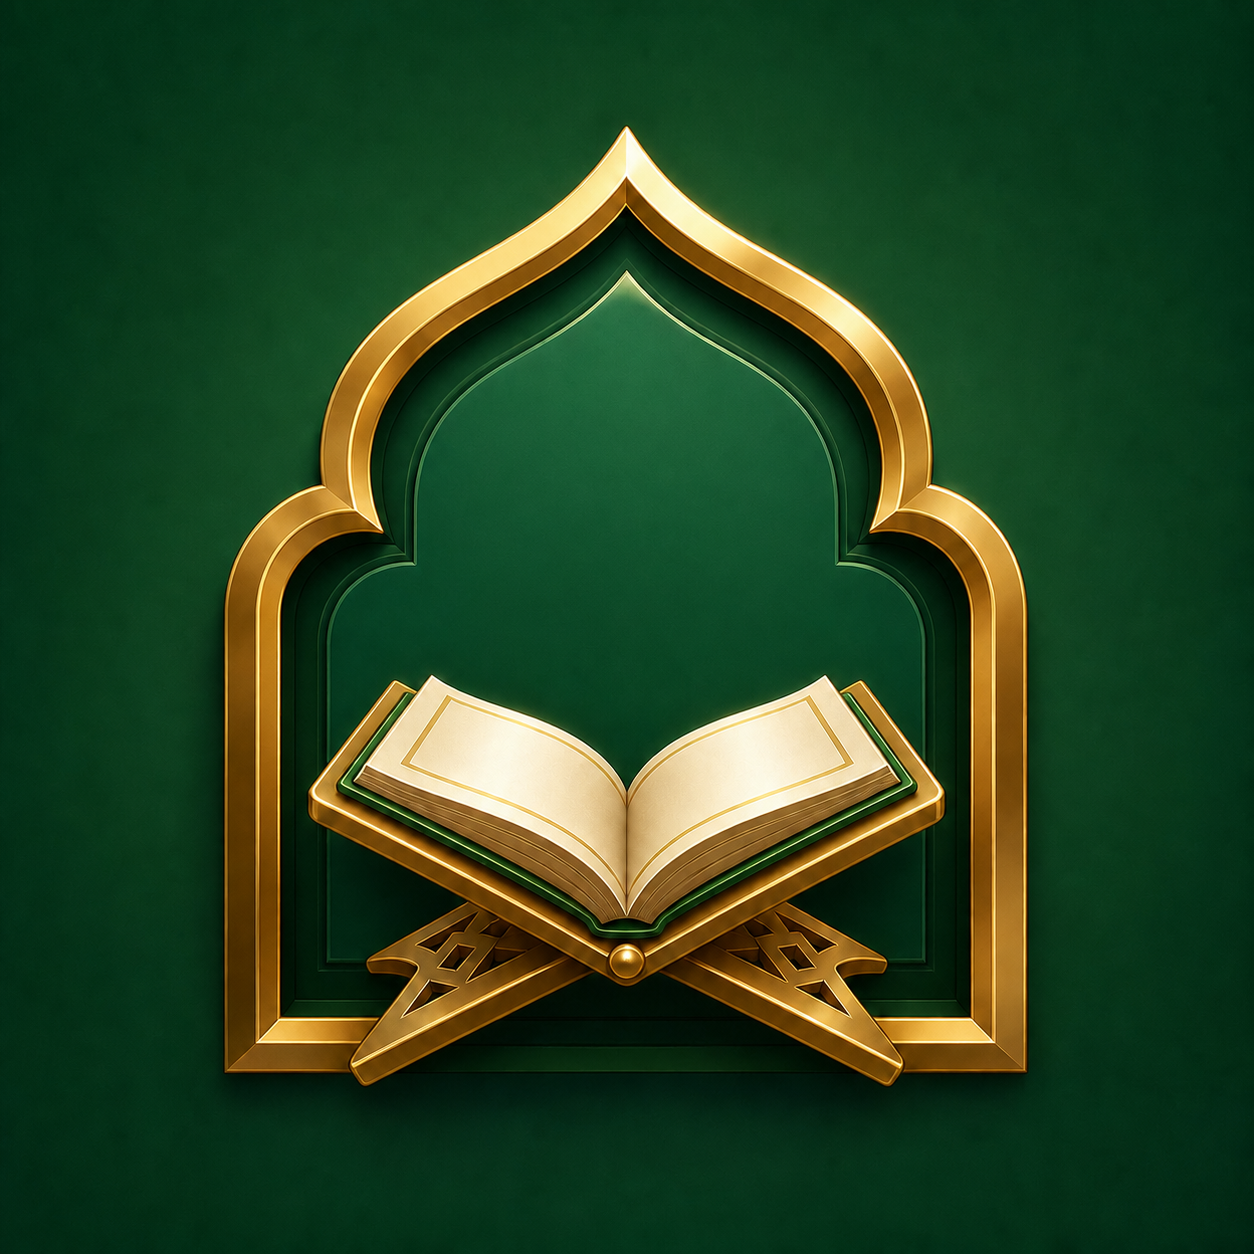
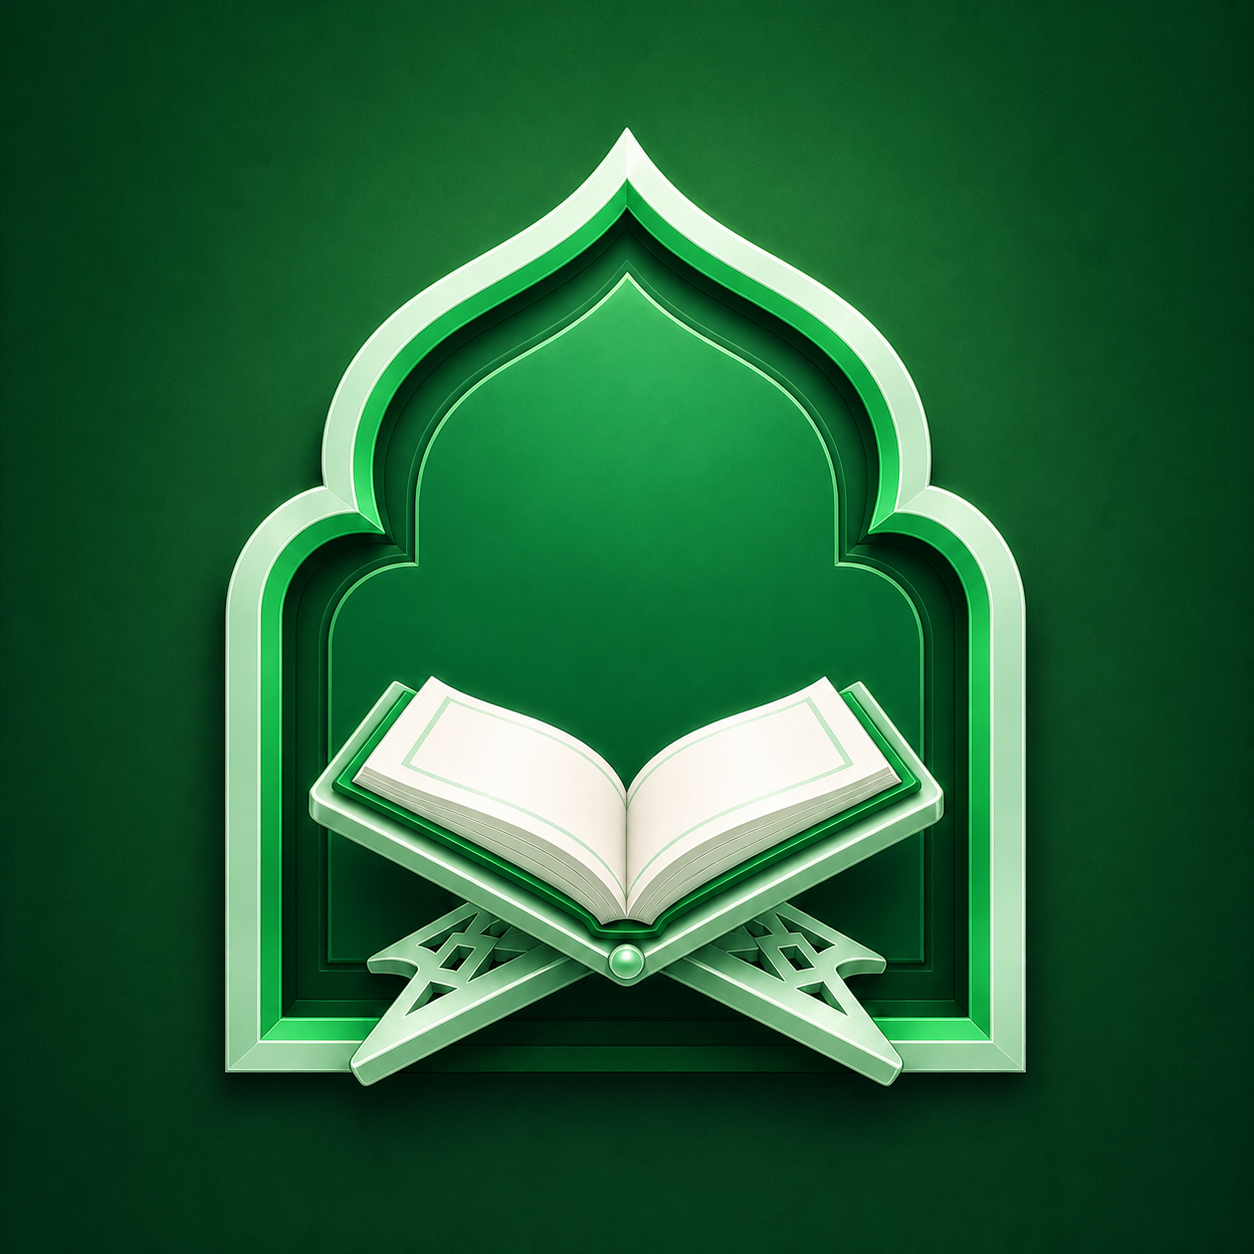
Release Android v1.7.9

diff --git a/index.html b/index.html
@@ -6,7 +6,7 @@
     <meta name="description" content="Iqro Morning Pray menghadirkan mushaf pilihan dan bacaan tahlil dalam satu halaman modern.">
     <meta name="robots" content="noindex, noarchive, nosnippet">
     <title>Iqro Morning Pray | Jejak Tilawah</title>
-    <link rel="icon" type="image/png" href="assets/app-logo.png?v=20260813-1">
+    <link rel="icon" type="image/png" href="assets/app-logo.png?v=20260813-2">
     <meta name="theme-color" content="#16a34a">
     <link rel="preconnect" href="https://fonts.googleapis.com">
     <link rel="preconnect" href="https://fonts.gstatic.com" crossorigin>
@@ -18,7 +18,7 @@
 <div class="site-shell">
     <header class="site-header">
         <button class="brand" type="button" onclick="showHome()">
-            <span class="brand-mark"><img src="assets/app-logo.png" alt="" aria-hidden="true"></span>
+            <span class="brand-mark"><img src="assets/app-logo.png?v=20260813-2" alt="" aria-hidden="true"></span>
             <span class="brand-copy">
                 <strong>Iqro</strong>
                 <span>Jejak Tilawah</span>
@@ -39,7 +39,7 @@
                     <div>
                         <p class="section-kicker">Home</p>
                         <h1 class="main-title">
-                            <span class="title-logo"><img src="assets/app-logo.png" alt="" aria-hidden="true"></span>
+                            <span class="title-logo"><img src="assets/app-logo.png?v=20260813-2" alt="" aria-hidden="true"></span>
                             Ringkasan Tilawah
                         </h1>
                         <p class="hero-copy">Setiap ayat membawamu lebih dekat kepada-Nya. Kami menyimpan jejak tilawahmu agar kamu bisa melanjutkannya kapan saja.</p>
@@ -392,7 +392,7 @@
     </main>
 
     <footer class="site-footer" aria-label="Informasi versi aplikasi">
-        <p class="site-footer-version">Iqro versi 1.7.8</p>
+        <p class="site-footer-version">Iqro versi 1.7.9</p>
         <p>© 2026 The Alus. All rights reserved</p>
     </footer>
 </div>
@@ -952,11 +952,16 @@
             .replace(/([\u06D6-\u06DB])\s*(?=\S)/g, '$1 ');
     }
 
-    // Scheherazade New can stack both marks over the alef in a vocalized
-    // lam-alif. Keep the Unicode text intact and isolate only that cluster
-    // so its mark-positioning features can be adjusted without affecting
-    // other Arabic shaping.
-    const quranMarkedLamAlifPattern = /(\u0644\u0652[\u0622\u0623\u0625\u0627\u0671][\u064B-\u065F\u0670\u06D6-\u06ED]+)/gu;
+    // Scheherazade New can attach lam's marks to the alef in a vocalized
+    // lam-alif. Keep the Unicode text intact and isolate every marked form
+    // (for example لِأٓ and لَّآ), not only the lam+sukun form, so Naskhi
+    // Jelas can use the Quran font's more reliable mark anchors.
+    const quranCombiningMarks = '[\\u064B-\\u065F\\u0670\\u06D6-\\u06ED]';
+    const quranMarkedLamAlifCluster = `\\u0644${quranCombiningMarks}+[\\u0622\\u0623\\u0625\\u0627\\u0671]${quranCombiningMarks}*`;
+    const quranMarkedLamAlifPattern = new RegExp(
+        `(\\S*${quranMarkedLamAlifCluster}\\S*)`,
+        'gu'
+    );
 
     function renderQuranTextSegment(value) {
         const source = String(value ?? '');
@@ -1579,7 +1584,7 @@
 </script>
 <script src="mobile-runtime.js?v=20260801-1"></script>
 <script src="quran-offline.js?v=20260805-1"></script>
-<script src="community.js?v=20260813-1"></script>
+<script src="community.js?v=20260813-2"></script>
 <script src="prayer.js?v=20260805-2"></script>
 <script src="calendar.js?v=20260807-2"></script>
 <script src="admin.js?v=20260801-1"></script>

diff --git a/scripts/render-arabic-icon.html b/scripts/render-arabic-icon.html
@@ -13,7 +13,7 @@
             height: 1254px;
             margin: 0;
             overflow: hidden;
-            background: #004a2d;
+            background: #166534;
         }
 
         html.foreground,
@@ -53,15 +53,15 @@
             font-weight: 400;
             line-height: 1;
             color: transparent;
-            background: linear-gradient(180deg, #fff4b9 4%, #f7ce69 48%, #d3941f 96%);
+            background: linear-gradient(180deg, #fffdf7 4%, #dcfce7 48%, #86efac 96%);
             background-clip: text;
             -webkit-background-clip: text;
             -webkit-text-fill-color: transparent;
-            -webkit-text-stroke: 5px #7a4a08;
+            -webkit-text-stroke: 5px #166534;
             paint-order: stroke fill;
             filter:
-                drop-shadow(0 11px 3px rgba(20, 10, 2, 0.62))
-                drop-shadow(0 -1px 0 rgba(255, 247, 205, 0.7));
+                drop-shadow(0 11px 3px rgba(20, 83, 45, 0.55))
+                drop-shadow(0 -1px 0 rgba(255, 253, 247, 0.8));
         }
     </style>
 </head>

diff --git a/community.js b/community.js
@@ -2006,7 +2006,7 @@ function injectCommunityUi() {
           <div>
             <p class="section-kicker">Komunitas</p>
             <h1 class="main-title">
-              <span class="title-logo"><img src="assets/app-logo.png" alt="" aria-hidden="true"></span>
+              <span class="title-logo"><img src="assets/app-logo.png?v=20260813-2" alt="" aria-hidden="true"></span>
               Ashabut Tilawah
             </h1>
           </div>
@@ -2060,7 +2060,7 @@ function injectCommunityUi() {
           <div>
             <p class="section-kicker">Akun</p>
             <h1 class="main-title">
-              <span class="title-logo"><img src="assets/app-logo.png" alt="" aria-hidden="true"></span>
+              <span class="title-logo"><img src="assets/app-logo.png?v=20260813-2" alt="" aria-hidden="true"></span>
               Pengaturan
             </h1>
           </div>
